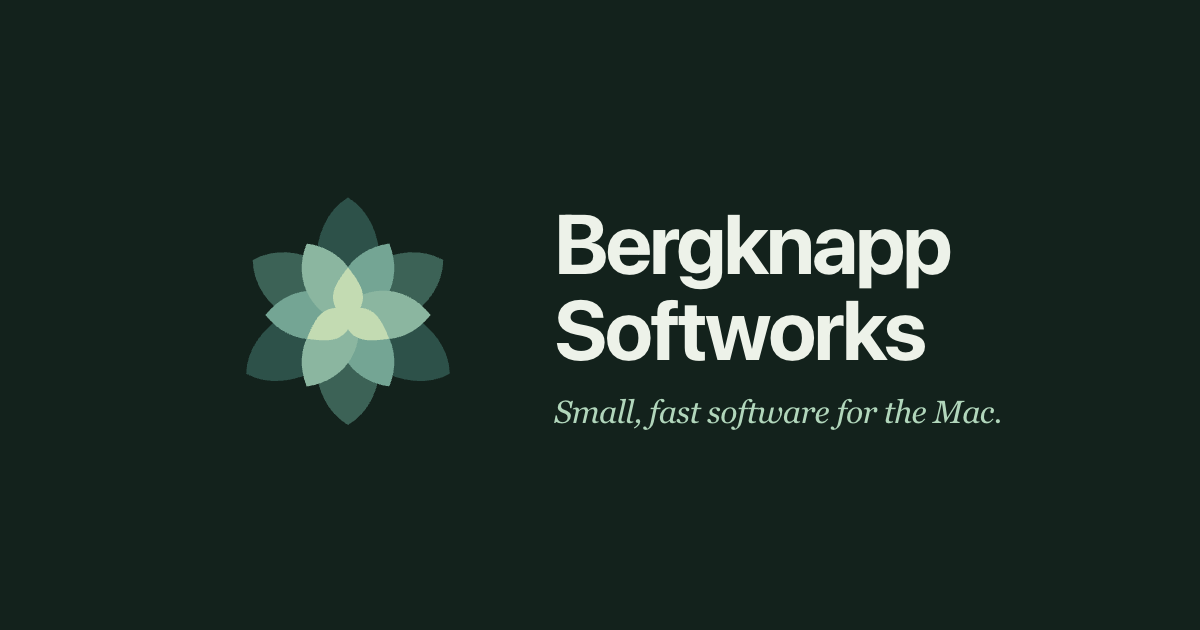
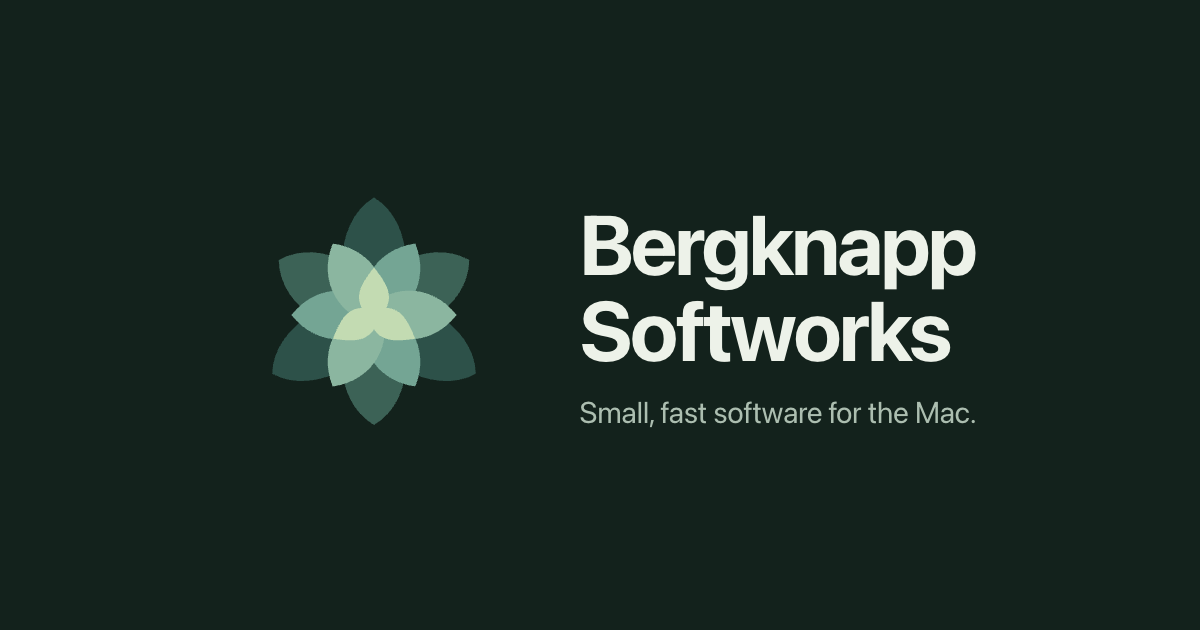
Simplify the headline to restrained sans-serif typography

Changed region(s): [[0.4625, 0.3317, 0.8325, 0.573], [0.185, 0.3016, 0.4008, 0.6937], [0.4625, 0.6333, 0.8325, 0.6937]]

diff --git a/index.html b/index.html
@@ -13,7 +13,7 @@
 <link rel="apple-touch-icon" href="/apple-touch-icon.png?v=blue-spruce-1">
 <meta property="og:title" content="Bergknapp Softworks">
 <meta property="og:description" content="Small, fast, offline tools for the Mac. Made by Beau Gunderson.">
-<meta property="og:image" content="https://bergknapp.works/og.png?v=blue-spruce-3">
+<meta property="og:image" content="https://bergknapp.works/og.png?v=blue-spruce-4">
 <meta property="og:image:width" content="1200">
 <meta property="og:image:height" content="630">
 <meta property="og:image:alt" content="Bergknapp Softworks. Small, fast software for the Mac, beside a blue-green stonecrop rosette.">
@@ -69,8 +69,7 @@ img, svg { display: block; max-width: 100%; }
 .brand { display: flex; align-items: center; gap: 10px; text-decoration: none; font-size: 15px; font-weight: 650; letter-spacing: -.025em; }
 .brand svg { width: 38px; height: 38px; }
 .hero { display: grid; grid-template-columns: 1fr 250px; align-items: center; gap: 70px; padding: 72px 0 68px; }
-h1 { margin: 0; font-size: clamp(42px, 5.2vw, 65px); font-weight: 650; line-height: 1.07; letter-spacing: -.055em; }
-h1 em { font-family: Georgia, "Times New Roman", serif; font-weight: 400; letter-spacing: -.045em; color: var(--accent); }
+h1 { max-width: 650px; margin: 0; font-size: clamp(38px, 4.5vw, 56px); font-weight: 600; line-height: 1.12; letter-spacing: -.035em; text-wrap: balance; }
 .intro { max-width: 540px; font-size: 18px; line-height: 1.6; color: var(--muted); margin: 23px 0 0; letter-spacing: -.012em; }
 .hero-art { margin: 0; }
 .hero-art svg { width: 236px; height: 236px; margin: 0 auto; }
@@ -130,7 +129,7 @@ footer a:hover { text-decoration: underline; }
   .brand svg { width: 30px; height: 30px; }
   .hero { display: block; padding: 46px 0 42px; }
   .hero-art { display: none; }
-  h1 { font-size: clamp(39px, 8.8vw, 54px); }
+  h1 { font-size: clamp(36px, 8vw, 44px); }
   .intro { font-size: 16px; margin-top: 20px; }
   .grid { grid-template-columns: 1fr; gap: 20px; }
   .knap { display: flex; }
@@ -185,7 +184,7 @@ footer a:hover { text-decoration: underline; }
   <main id="main">
     <section class="hero" aria-labelledby="headline">
       <div>
-        <h1 id="headline">Small, fast software<br><em>for the Mac.</em></h1>
+        <h1 id="headline">Small, fast software for the Mac.</h1>
         <p class="intro">I make native, offline tools for the things that bother me on my own Mac.</p>
       </div>
       <figure class="hero-art">

diff --git a/og.html b/og.html
@@ -5,7 +5,7 @@ body { margin: 0; width: 1200px; height: 630px; background: #13221c; color: #edf
 .box { display: flex; align-items: center; gap: 56px; }
 svg { width: 300px; height: 300px; }
 h1 { margin: 0; font-size: 84px; font-weight: 700; letter-spacing: -0.03em; line-height: 1.02; }
-p { margin: 22px 0 0; font: italic 32px Georgia, "Times New Roman", serif; color: #b1d6bb; letter-spacing: -0.02em; }
+p { margin: 22px 0 0; font-size: 30px; font-weight: 400; color: #acbeb0; letter-spacing: -0.01em; }
 </style></head><body>
 <div class="box">
   <svg viewBox="0 0 120 120">

diff --git a/CLAUDE.md b/CLAUDE.md
@@ -3,7 +3,7 @@
 Static one-page site for Bergknapp Softworks at https://bergknapp.works, hosted on Netlify (project `bergknapp-works`) and deployed from `main` of `beaugunderson/bergknapp-website`. `netlify.toml` publishes the repo root; no build.
 
 - Keep the page a directory: one card per app pointing at that app's own site (knap.rocks, spacebar.tools, tuck.bar). Product detail lives on those sites, not here.
-- Copy stays short and in Beau's voice. Add a card when an app has its own site; drop the card when it goes away.
+- Copy stays short and in Beau's voice. Add a card when an app has its own site; drop the card when it goes away. Keep the headline restrained and sans-serif throughout; no contrasting italic-serif or accent-colored second line.
 - Use a dark spruce background even in light OS mode. No top navigation (including About), "The apps" heading/tagline, logo caption, location/byline, GitHub, or "Say hello" links. Beau's name appears once in the visible page, linked to his personal website in the footer; don't display the domain as a separate link.
 - The mark is a top-down stonecrop (sedum) rosette, no rock, in the Blue spruce palette. Each leaf ring has a distinct brightness range. `index.html` owns the `<symbol id="rosette">` and light/dark CSS colors; run `python3 scripts/sync-logo.py` to update `favicon.svg` and the mark in `og.html`, then regenerate PNGs per the README. Keep the approved geometry unless Beau asks to change it.
 - DNS is at Spaceship, not Netlify: `@ A 75.2.60.5`, `www CNAME bergknapp-works.netlify.app`, TTL 300. Manage records through the Spaceship API (`spaceship API key` in the emmylou 1Password vault); never move nameservers to Netlify (DNSSEC DS at Spaceship makes that SERVFAIL, see tuck's CLAUDE.md).
